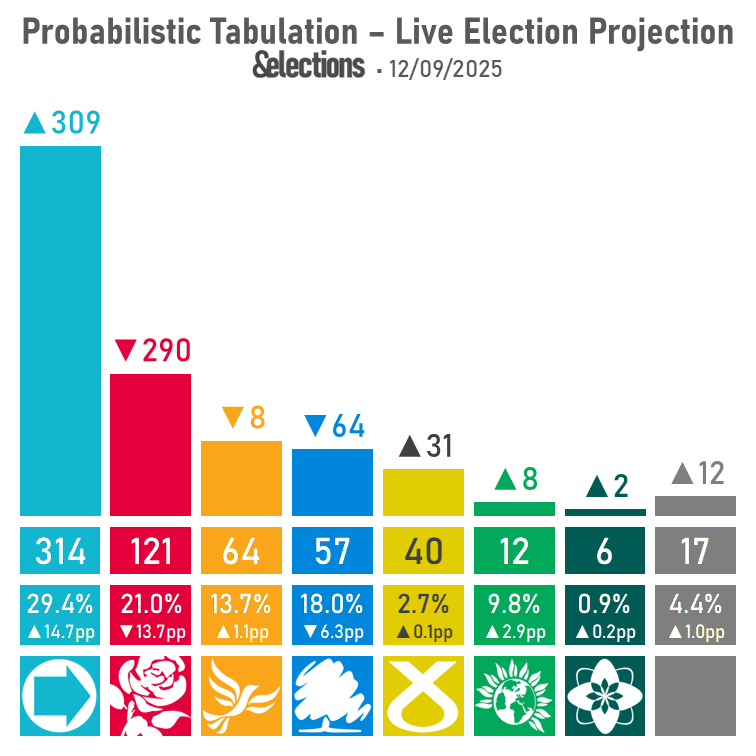
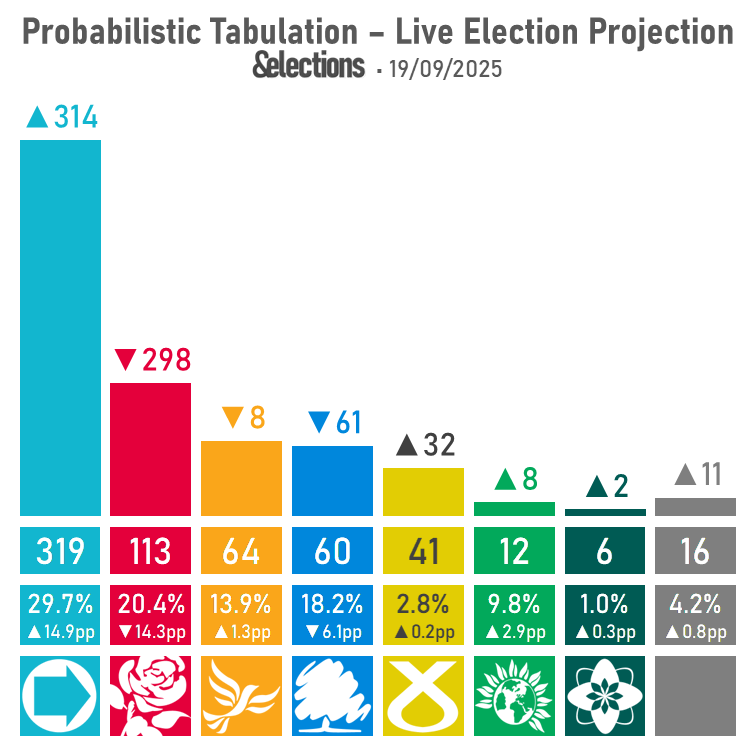
19/09/25 UK Projection
- Added new images and added article.

diff --git a/index.html b/index.html
@@ -371,6 +371,10 @@
                     </div>
                     <div class="datacontainer" id="data-blog">
                         <div class="blogtitles-container">
+                            <a href="https://andelections.substack.com/p/190925-uk-projection-labours-political" title="Open article in new tab" target="_blank" rel="noopener noreferrer">
+                                <h2>19/09/25 UK Projection: Labour's Political Misfortunes Catch Up to Them</h2>
+                                <p>19 Sep 2025 • Labour are down to 100 seats and Reform are forecast to win a majority of 28 as the public's verdict of the past fortnight of political turmoil is realised.</p>
+                            </a>
                             <a href="https://andelections.substack.com/p/have-the-lib-dems-reached-their-ceiling" title="Open article in new tab" target="_blank" rel="noopener noreferrer">
                                 <h2>Have the Lib Dems Reached Their Ceiling?</h2>
                                 <p>16 Sep 2025 • Given widespread dissatisfaction for the political duopoly, how come the Ed Davey's party isn't doing better?</p>
